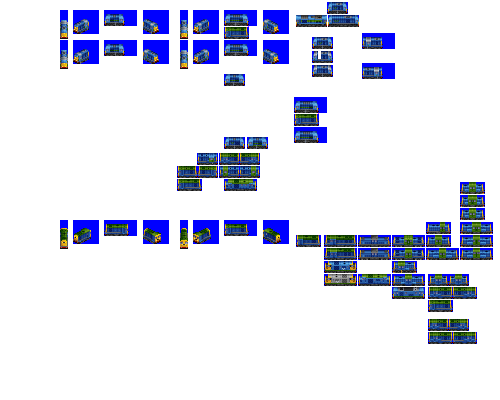
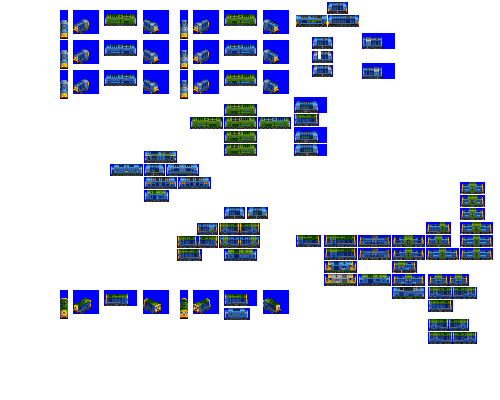
Change: (WIP) Nemesis was unconvincing as twin-unit engine; restore Falcon to general purpose, as that's familier, and convert Nemesis to be a single unit Lion / Kestrel mashup

diff --git a/src/vehicles/nemesis.py b/src/vehicles/nemesis.py
@@ -5,28 +5,25 @@ def main(roster_id):
     consist = EngineConsist(
         roster_id=roster_id,
         id="nemesis",
-        base_numeric_id=6750,
-        name="Nemesis",
-        role="super_heavy_express",
+        base_numeric_id=8230,
+        name="Lion",
+        role="super_heavy_freight",
         role_child_branch_num=-2,
         power_by_power_source={
-            "DIESEL": 2900,
+            "DIESEL": 2950,
         },
         random_reverse=True,
         gen=4,
         intro_year_offset=10,  # let's be later for this one
-        default_livery_extra_docs_examples=[
-            ("COLOUR_PALE_GREEN", "COLOUR_GREY"),
-            ("COLOUR_PINK", "COLOUR_WHITE"),
-        ],
+        additional_liveries=["BANGER_BLUE", "SWOOSH"],
         sprites_complete=False,
     )
 
     consist.add_unit(
-        type=DieselEngineUnit, weight=60, vehicle_length=6, repeat=2
+        type=DieselEngineUnit, weight=60, vehicle_length=8,
     )
 
     consist.description = """Good horses make short miles."""
-    consist.foamer_facts = """Irish Railways 181 Class"""
+    consist.foamer_facts = """BRCW / BR D0260 Falcon prototype."""
 
     return consist

diff --git a/src/rosters/pony.py b/src/rosters/pony.py
@@ -644,7 +644,7 @@ def main():
             hawkinge,
             dragon,
             vulcan,
-            nemesis,
+            falcon,
             onslaught,
             dreadnought,
             defiant,
@@ -706,7 +706,7 @@ def main():
             esk,
             chinook,
             withershins,
-            falcon,
+            nemesis,
             grid,
             bone,
             toaster,

diff --git a/src/vehicles/falcon.py b/src/vehicles/falcon.py
@@ -7,7 +7,7 @@ def main(roster_id):
         id="falcon",
         base_numeric_id=15470,
         name="Falcon",
-        role="super_heavy_freight",
+        role="super_heavy_express",
         role_child_branch_num=-2,
         replacement_consist_id="onslaught",  # this Joker ends with Onslaught
         power_by_power_source={
